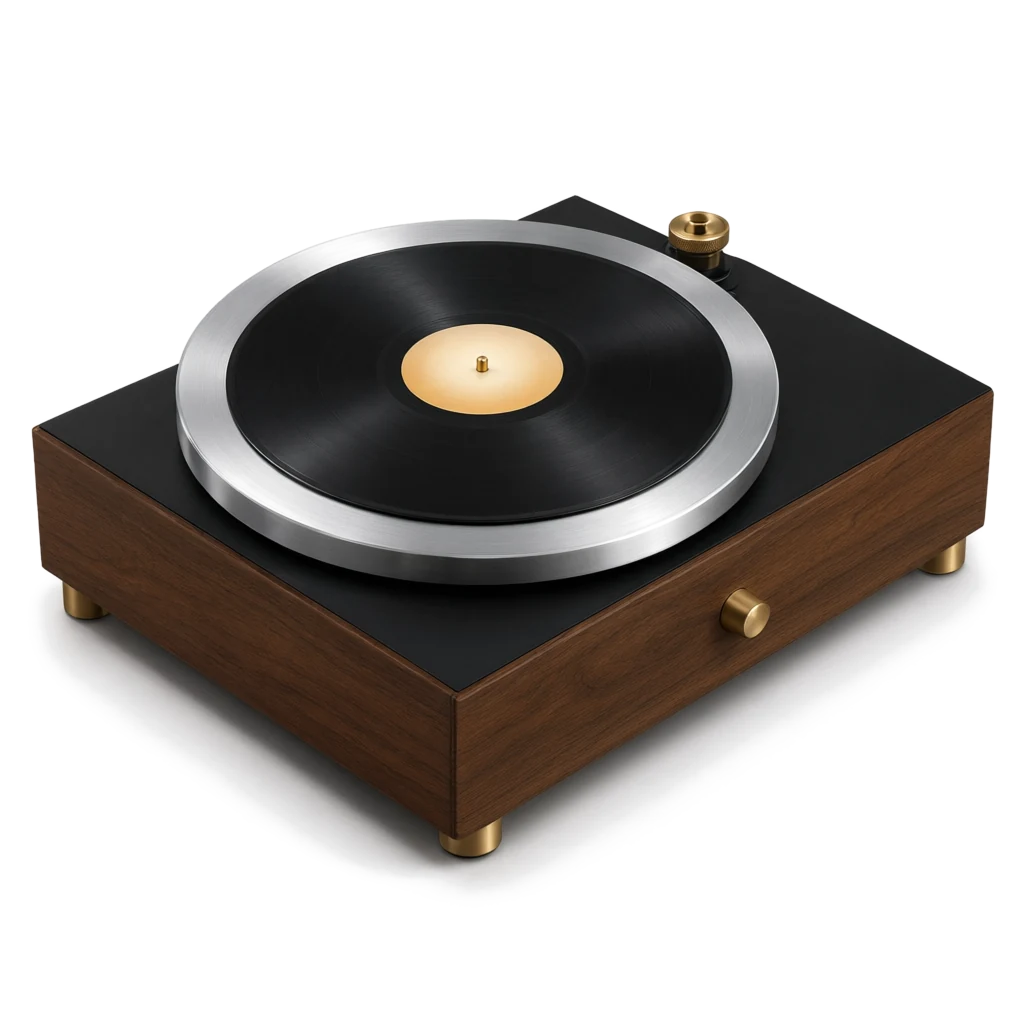
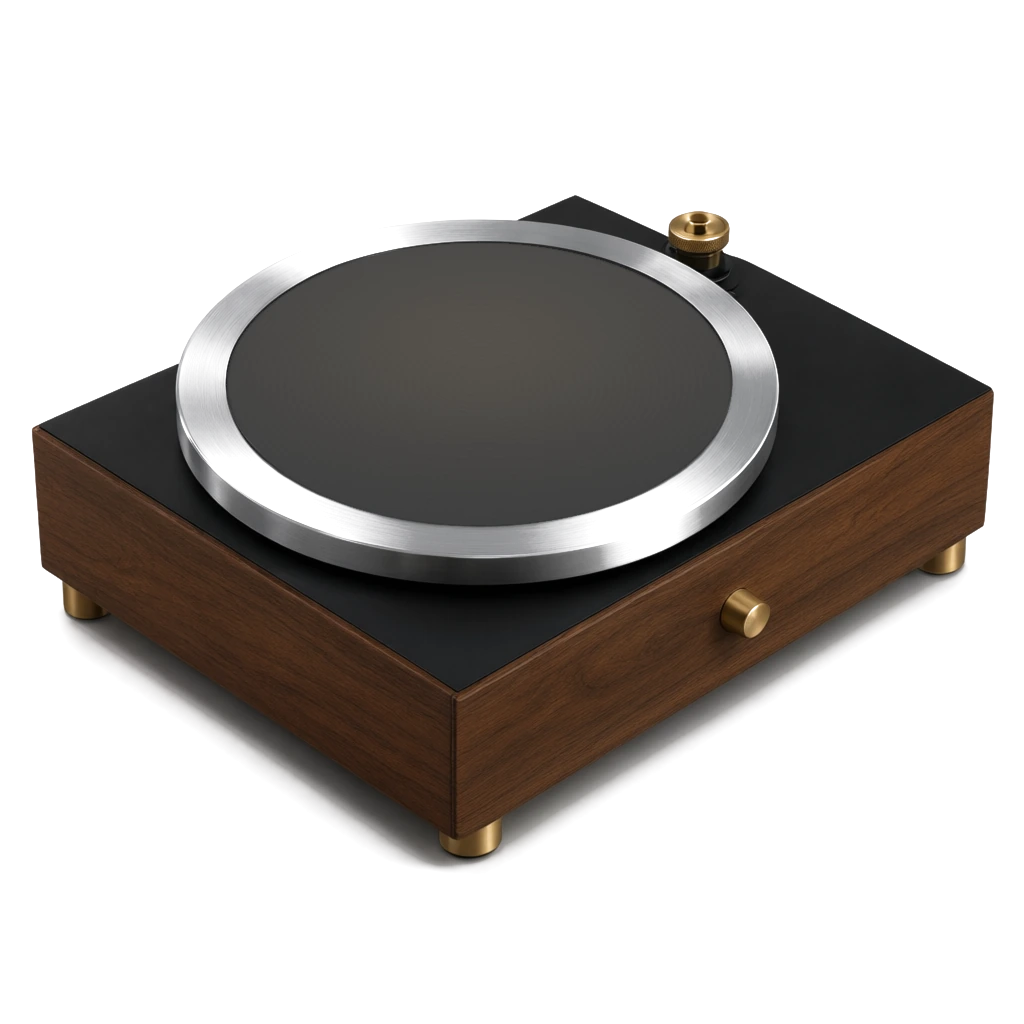
fix: 唱片机标签居中/黑胶旋转/落针柔化/去方形框与白晕

Changed region(s): [[0.1562, 0.2188, 0.75, 0.5625], [0.0312, 0.5312, 0.9688, 0.875]]

diff --git a/docs/.vitepress/theme/style.css b/docs/.vitepress/theme/style.css
@@ -310,14 +310,21 @@ a:hover { color: var(--accent); }
 .deck-stage { position: relative; width: 100%; aspect-ratio: 1 / 1; }
 .deck-img { position: absolute; inset: 0; width: 100%; height: 100%; object-fit: contain; user-select: none; pointer-events: none; }
 
-/* 四时段：机身材质氛围（滤镜 + 柔光层） */
-.deck-tint { position: absolute; inset: 0; mix-blend-mode: overlay; opacity: 0; pointer-events: none; }
+/* 四时段：机身材质氛围（滤镜 + 柔光层，mask 裁剪到机身轮廓避免方形框） */
+.deck-tint {
+  position: absolute; inset: 0; mix-blend-mode: overlay; opacity: 0; pointer-events: none;
+  -webkit-mask-image: url("./art/deck-record.webp");
+  mask-image: url("./art/deck-record.webp");
+  mask-size: 100% 100%;
+  mask-repeat: no-repeat;
+  mask-mode: alpha;
+}
 :root[data-palette="noon"] .deck-img { filter: brightness(1.03) saturate(1.05) hue-rotate(-4deg); }
 :root[data-palette="noon"] .deck-tint { opacity: .16; background: radial-gradient(60% 55% at 32% 18%, rgba(165,205,235,.5), transparent 72%); }
 :root[data-palette="dusk"] .deck-img { filter: sepia(.24) saturate(1.1) brightness(.93); }
-:root[data-palette="dusk"] .deck-tint { opacity: .30; mix-blend-mode: soft-light; background: radial-gradient(75% 65% at 40% 28%, rgba(255,140,80,.38), rgba(120,40,18,.28) 78%); }
+:root[data-palette="dusk"] .deck-tint { opacity: .30; mix-blend-mode: soft-light; background: radial-gradient(82% 74% at 40% 28%, rgba(255,140,80,.36), rgba(120,40,18,.22) 55%, transparent 74%); }
 :root[data-palette="night"] .deck-img { filter: brightness(.78) saturate(.9) contrast(1.06) hue-rotate(-10deg); }
-:root[data-palette="night"] .deck-tint { opacity: .40; mix-blend-mode: soft-light; background: radial-gradient(75% 65% at 36% 24%, rgba(80,140,255,.30), rgba(8,14,42,.5) 82%); }
+:root[data-palette="night"] .deck-tint { opacity: .40; mix-blend-mode: soft-light; background: radial-gradient(82% 74% at 36% 24%, rgba(80,140,255,.28), rgba(8,14,42,.38) 60%, transparent 78%); }
 :root[data-palette="night"] .deck .platter { filter: drop-shadow(0 0 14px rgba(100,220,255,.22)); }
 
 /* 地面投影：随鼠标反向移动 + 横向形变 */
@@ -332,14 +339,15 @@ a:hover { color: var(--accent); }
 .platter { position: absolute; left: 46.8%; top: 37.3%; width: 52.5%; aspect-ratio: 1 / 1; transform: translate(-50%, -50%) scaleY(.563); transform-origin: center; pointer-events: none; }
 .vinyl-spool, .vinyl-rot { position: absolute; inset: 0; }
 .vinyl-spool { will-change: transform; }
-.vinyl-rot { animation: vinyl-spin 5s linear infinite; animation-play-state: paused; will-change: transform; }
+.vinyl-rot { animation: vinyl-spin 3.2s linear infinite; animation-play-state: paused; will-change: transform; }
 .deck.is-spinning .vinyl-rot { animation-play-state: running; }
 @keyframes vinyl-spin { to { transform: rotate(360deg); } }
 .vinyl-img { position: absolute; inset: 0; width: 100%; height: 100%; }
 
 /* 卷宗标签：叠在素材黑胶的米纸圆签上 */
-.vinyl-label { position: absolute; left: 50%; top: 50%; width: 26%; height: 26%; transform: translate(-50%, -50%); overflow: visible; }
-.vinyl-label .label-ring { fill: none; stroke: currentColor; stroke-width: 1; opacity: .5; }
+.vinyl-label { position: absolute; left: 50%; top: 50%; width: 28%; height: 28%; transform: translate(-50%, -50%); overflow: visible; }
+.vinyl-label .label-paper { fill: rgba(248, 242, 226, .95); }
+.vinyl-label .label-ring { fill: none; stroke: currentColor; stroke-width: 1; opacity: .55; }
 .vinyl-label .label-ring-in { fill: none; stroke: currentColor; stroke-width: .5; opacity: .22; }
 .vinyl-label .glyph { fill: none; stroke: currentColor; stroke-width: 1.5; stroke-linecap: round; stroke-linejoin: round; }
 .vinyl-label .glyph-dot { fill: currentColor; stroke: none; }
@@ -354,6 +362,7 @@ a:hover { color: var(--accent); }
 .spindle-hole { fill: rgba(38, 26, 15, .92); }
 .spindle-cap { fill: rgba(214, 172, 92, .95); }
 .spindle-cap-hi { fill: rgba(255, 235, 190, .9); }
+.vinyl-label { filter: drop-shadow(0 1px 2px rgba(0,0,0,.28)); }
 /* 六卷主题色 */
 .deck[data-vol="0"] .vinyl-label { color: #b0862f; }
 .deck[data-vol="1"] .vinyl-label { color: #3d7ea6; }
@@ -364,41 +373,59 @@ a:hover { color: var(--accent); }
 :root[data-palette="night"] .deck .vinyl-label { filter: drop-shadow(0 0 4px rgba(120,235,215,.65)); }
 
 /* 唱臂：枢轴对齐机身金色底座（67.4%,21.5%），素材枢轴在 (83.3%,20.5%)，播放角 0°、抬起角 -65° */
-.arm-wrap, .arm-shadow { position: absolute; left: 39.2%; top: 14.6%; width: 33.9%; aspect-ratio: 1 / 1; transform-origin: 83.3% 20.5%; pointer-events: none; }
+.arm-wrap, .arm-shadow { position: absolute; left: 28.9%; top: 12.0%; width: 46.3%; aspect-ratio: 1 / 1; transform-origin: 83.3% 20.5%; pointer-events: none; }
 .arm-img { position: absolute; inset: 0; width: 100%; height: 100%; }
 .arm-wrap { transform: rotate(-65deg); will-change: transform; }
 .arm-shadow { transform: translate(2.5%, 3.5%) rotate(-65deg); filter: blur(5px); opacity: .22; }
 @keyframes arm-drop {
-  0%   { transform: rotate(-65deg); animation-timing-function: cubic-bezier(.45,.05,.25,1); }
-  34%  { transform: rotate(-8deg); animation-timing-function: cubic-bezier(.5,.02,.4,1); }
-  58%  { transform: rotate(3.5deg); animation-timing-function: cubic-bezier(.3,1.25,.45,1); }
-  68%  { transform: rotate(-1.5deg); animation-timing-function: cubic-bezier(.4,0,.3,1); }
-  76%  { transform: rotate(0.6deg); animation-timing-function: cubic-bezier(.4,0,.3,1); }
-  84%, 100% { transform: rotate(0deg); }
+  0%   { transform: rotate(-65deg) scaleY(.97); animation-timing-function: cubic-bezier(.45,.05,.2,1); }
+  30%  { transform: rotate(-10deg) scaleY(.955); animation-timing-function: cubic-bezier(.5,.08,.35,1); }
+  48%  { transform: rotate(-2.5deg) scaleY(.945); animation-timing-function: cubic-bezier(.45,.05,.3,1); }
+  68%  { transform: rotate(1.4deg) scaleY(1); animation-timing-function: cubic-bezier(.3,1.25,.45,1); }
+  80%  { transform: rotate(-.4deg) scaleY(1.002); animation-timing-function: cubic-bezier(.4,0,.3,1); }
+  100% { transform: rotate(0deg) scaleY(1); }
 }
 @keyframes arm-lift {
-  0%   { transform: rotate(0deg); animation-timing-function: cubic-bezier(.5,.05,.3,1); }
-  22%  { transform: rotate(-8deg); animation-timing-function: cubic-bezier(.45,.05,.25,1); }
-  100% { transform: rotate(-65deg); }
+  0%   { transform: rotate(0deg) scaleY(1); animation-timing-function: cubic-bezier(.5,.05,.3,1); }
+  30%  { transform: rotate(-7deg) scaleY(.975); animation-timing-function: cubic-bezier(.45,.05,.25,1); }
+  100% { transform: rotate(-65deg) scaleY(.97); }
 }
-.deck.is-dropping .arm-wrap { animation: arm-drop 2.2s both; }
-.deck.is-playing .arm-wrap { transform: rotate(0deg); }
+@keyframes arm-drop-shadow {
+  0%   { transform: translate(2.5%, 3.5%) rotate(-65deg); animation-timing-function: cubic-bezier(.45,.05,.2,1); }
+  30%  { transform: translate(2.5%, 3.5%) rotate(-10deg); animation-timing-function: cubic-bezier(.5,.08,.35,1); }
+  48%  { transform: translate(2.5%, 3.5%) rotate(-2.5deg); animation-timing-function: cubic-bezier(.45,.05,.3,1); }
+  68%  { transform: translate(2.5%, 3.5%) rotate(1.4deg); animation-timing-function: cubic-bezier(.3,1.25,.45,1); }
+  80%  { transform: translate(2.5%, 3.5%) rotate(-.4deg); animation-timing-function: cubic-bezier(.4,0,.3,1); }
+  92%, 100% { transform: translate(2.5%, 3.5%) rotate(0deg); }
+}
+@keyframes arm-lift-shadow {
+  0%   { transform: translate(2.5%, 3.5%) rotate(0deg); animation-timing-function: cubic-bezier(.5,.05,.3,1); }
+  30%  { transform: translate(2.5%, 3.5%) rotate(-7deg); animation-timing-function: cubic-bezier(.45,.05,.25,1); }
+  100% { transform: translate(2.5%, 3.5%) rotate(-65deg); }
+}
+@keyframes stylus-touch-in { from { opacity: 0; } to { opacity: 1; } }
+.deck.is-dropping .arm-wrap { animation: arm-drop 1.7s both; }
+.deck.is-playing .arm-wrap { transform: rotate(0deg) scaleY(1); }
 .deck.is-lifting .arm-wrap { animation: arm-lift .9s both; }
-.deck.is-dropping .arm-shadow { animation: arm-drop 2.2s both; }
+.deck.is-dropping .arm-shadow { animation: arm-drop-shadow 1.7s both; }
 .deck.is-playing .arm-shadow { transform: translate(2.5%, 3.5%) rotate(0deg); }
-.deck.is-lifting .arm-shadow { animation: arm-lift .9s both; }
+.deck.is-lifting .arm-shadow { animation: arm-lift-shadow .9s both; }
+/* 落针末端：针尖接触影随下降浮现 */
+.deck.is-dropping .stylus-shadow { animation: stylus-touch-in .5s ease-out 1.1s forwards; }
+.deck.is-dropping .stylus-contact { animation: stylus-touch-in .45s ease-out 1.15s forwards; }
+.deck.is-dropping .stylus-glint { animation: stylus-touch-in .45s ease-out 1.2s forwards; }
 
-/* 针尖接触影：落针后浮现（对齐针尖落点 44.6%,41.3%） */
+/* 针尖接触影：落针后浮现（对齐针尖落点 36.0%,48.2% 沟槽区） */
 .stylus-shadow {
-  position: absolute; left: 44.6%; top: 41.3%; width: 3.8%; height: 2%;
+  position: absolute; left: 36.0%; top: 48.2%; width: 3.8%; height: 2%;
   transform: translate(-50%, -50%) rotate(-8deg);
-  background: radial-gradient(50% 50% at 50% 50%, rgba(14, 7, 3, .62), transparent 72%);
-  filter: blur(1px); border-radius: 50%;
+  background: radial-gradient(50% 50% at 50% 50%, rgba(10, 5, 2, .8), transparent 72%);
+  filter: blur(1.2px); border-radius: 50%;
   opacity: 0; transition: opacity .7s ease .2s; pointer-events: none;
 }
 .deck.is-playing .stylus-shadow { opacity: 1; }
 .stylus-glint {
-  position: absolute; left: 44.6%; top: 41.3%; width: 1.4%; height: .8%;
+  position: absolute; left: 36.0%; top: 48.2%; width: 1.4%; height: .8%;
   transform: translate(-50%, -50%);
   background: radial-gradient(50% 50% at 50% 50%, rgba(255, 255, 255, .95), transparent 70%);
   border-radius: 50%;
@@ -407,7 +434,7 @@ a:hover { color: var(--accent); }
 .deck.is-playing .stylus-glint { opacity: .95; }
 /* 针尖接触点：极小暗点压住盘面，强化“针已落下” */
 .stylus-contact {
-  position: absolute; left: 44.6%; top: 41.3%; width: 1.1%; height: .6%;
+  position: absolute; left: 36.0%; top: 48.2%; width: 1.5%; height: .8%;
   transform: translate(-50%, -50%);
   background: radial-gradient(50% 50% at 50% 50%, rgba(6, 3, 1, .85), transparent 75%);
   border-radius: 50%;

diff --git a/docs/.vitepress/theme/components/RecordPlayer.vue b/docs/.vitepress/theme/components/RecordPlayer.vue
@@ -195,6 +195,7 @@ onBeforeUnmount(() => {
                 <div class="vinyl-rot">
                   <img class="vinyl-img" :src="vinylImg" alt="" draggable="false" />
                   <svg class="vinyl-label" viewBox="0 0 48 48" aria-hidden="true" focusable="false">
+                    <circle class="label-paper" cx="24" cy="24" r="19" />
                     <circle class="label-ring" cx="24" cy="24" r="19" />
                     <circle class="label-ring-in" cx="24" cy="24" r="15.5" />
                     <g
